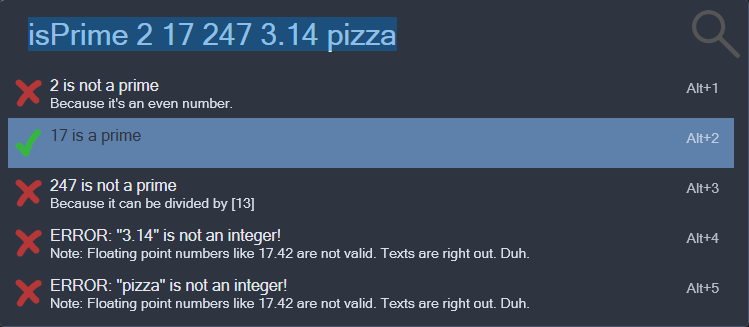
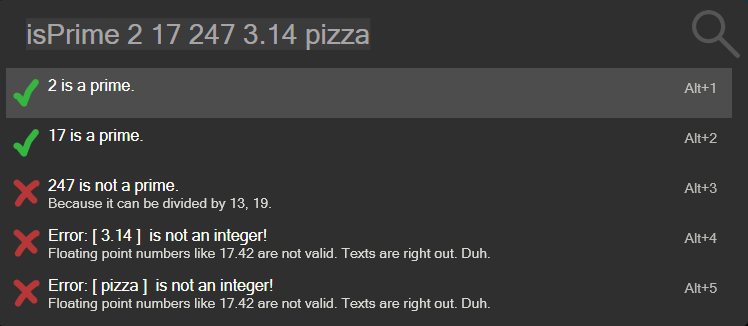
improved algorithm, messages, bumbed up version, adjusted readme

diff --git a/plugin/is_prime.py b/plugin/is_prime.py
@@ -3,12 +3,18 @@ from flowlauncher import FlowLauncher
 
 
 class Main(FlowLauncher):
+
+    DISPLAYED_FACTOR_LIMIT = 11  # has to be a prime, it's the law >:(
+    DIVISOR_LIST_SHORTENER = ".."
     PLACEHOLDER_NUMBER = "X"
-    MSG_IS_PRIME = "{} is a prime".format(PLACEHOLDER_NUMBER)
-    MSG_IS_NO_PRIME = "{} is not a prime".format(PLACEHOLDER_NUMBER)
+    MSG_ARG_IS_NAN = "Floating point numbers like 17.42 are not valid. Texts are right out. Duh."
+    MSG_ARG_IS_NEGATIVE = "Why even bother adding the minus? Just check the positive value."
+    MSG_IS_PRIME = "{} is a prime.".format(PLACEHOLDER_NUMBER)
+    MSG_IS_NO_PRIME = "{} is not a prime.".format(PLACEHOLDER_NUMBER)
     MSG_NUMBER_EVEN = "Because it's an even number."
-    MSG_NUMBER_DIVISABLE_BY = "Because it can be divided by [{}]".format(
+    MSG_NUMBER_DIVISABLE_BY = "Because it can be divided by {}.".format(
         PLACEHOLDER_NUMBER)
+    LOW_PRIME_THRESHOLD = 3  # 1-3 are primes so don't check those
 
     messages = []
 
@@ -20,13 +26,38 @@ class Main(FlowLauncher):
         })
 
     def isPrime(self, number: int):
-        if number > 2 and number % 2 == 0:
-            return {"isPrime": False, "message": self.MSG_NUMBER_EVEN}
-        # start at 3 and only check odd number up to sqrt(n)+1
-        for i in range(3, int(number**0.5)+1, 2):
-            if number % i == 0:
-                return {"isPrime": False, "message": self.MSG_NUMBER_DIVISABLE_BY.replace(self.PLACEHOLDER_NUMBER, str(i))}
+        if number > self.LOW_PRIME_THRESHOLD:
+            if number % 2 == 0:
+                return {"isPrime": False, "message": self.MSG_NUMBER_EVEN}
+            factors = self.getFactors(number)
+            if len(factors) > 0:
+                return {
+                    "isPrime": False,
+                    "message": self.MSG_NUMBER_DIVISABLE_BY.replace(
+                        self.PLACEHOLDER_NUMBER,
+                        ", ".join(map(str, factors))
+                    )
+                }
+        # number < 4 or no divisors found
         return {"isPrime": True, "message": None}
+
+    def shortenList(self, lst: list) -> list:
+        if len(lst) >= self.DISPLAYED_FACTOR_LIMIT:
+            shortenedList = lst[:self.DISPLAYED_FACTOR_LIMIT]
+            shortenedList.append(self.DIVISOR_LIST_SHORTENER)
+            return shortenedList
+        return lst
+
+    def getFactors(self, number: int) -> list:
+        factors = set()
+        # start at 3 and only check odd numbers up to sqrt(n)+1
+        for i in range(self.LOW_PRIME_THRESHOLD, int(number**0.5) + 1, 2):
+            if number % i == 0:
+                factors.add(i)
+                factors.add(number//i)
+        asList = list(factors)
+        asList.sort()
+        return self.shortenList(asList)
 
     def getNumberValue(self, text: str):
         try:
@@ -44,14 +75,23 @@ class Main(FlowLauncher):
             isNumber, value = self.getNumberValue(number)
 
             if isNumber:
-                result = self.isPrime(value)
-                title = self.MSG_IS_PRIME if result["isPrime"] else self.MSG_IS_NO_PRIME
-                title = title.replace(self.PLACEHOLDER_NUMBER, str(value))
-                subTitle = result["message"]
-                img = "success" if result["isPrime"] else "failure"
+                if value < 0:
+                    title = "Error: Given number musn't be negative!"
+                    subTitle = self.MSG_ARG_IS_NEGATIVE
+                    img = "failure"
+                elif value == 0:
+                    title = "You have summoned a black hole - congratulations!"
+                    subTitle = "By doing so you have doomed us all. I hope you're proud."
+                    img = "black-hole"
+                else:
+                    result = self.isPrime(value)
+                    title = self.MSG_IS_PRIME if result["isPrime"] else self.MSG_IS_NO_PRIME
+                    title = title.replace(self.PLACEHOLDER_NUMBER, str(value))
+                    subTitle = result["message"]
+                    img = "success" if result["isPrime"] else "failure"
             else:
-                title = "ERROR: \"{}\" is not an integer!".format(value)
-                subTitle = "Note: Floating point numbers like 17.42 are not valid. Texts are right out. Duh."
+                title = "Error: [ {} ]  is not an integer!".format(value)
+                subTitle = self.MSG_ARG_IS_NAN
                 img = "failure"
 
             self.addMessage(title, subTitle, img)

diff --git a/README.md b/README.md
@@ -1,6 +1,6 @@
 # IsPrime (Flow.Launcher.Plugin.IsPrime)
 
-A [Flow Launcher](https://github.com/Flow-Launcher/Flow.Launcher) port of my original wox plugin [wox-plugin-isPrime](https://github.com/lvonkacsoh/wox-plugin-isPrime).
+A [Flow Launcher](https://github.com/Flow-Launcher/Flow.Launcher) port of my original [wox-plugin-isPrime](https://github.com/lvonkacsoh/wox-plugin-isPrime).
 
 ![screenshot](assets/isPrime_screenshot.png)
 
@@ -8,9 +8,9 @@ A [Flow Launcher](https://github.com/Flow-Launcher/Flow.Launcher) port of my ori
 ## About
 
 Checks if the given integers are prime numbers.
-If the number is not a prime it tells you by which other number it can be divided.
+If the number is not a prime it tells you by which numbers it can be devided.
+Due to space limitations only up to eleven factors can be displayed.
 
-The screenshot shows all relevant edge cases.
 In case you are still unsure about what integers are consider consulting your favourite math tutor.
 
 
@@ -56,16 +56,25 @@ The easiest way to install it is to open a CLI like Powershell, navigate into th
 | `isPrime {number_0} {number_1} {number_N}` | check if the given values are prime numbers |
 
 Floating point numbers and text are both treated as invalid since they're no integers.
-Checking if 3.14 or "pizza" is prime seems kind of nonsense to me.
+Negative numbers are integers but will be treated invalid nonetheless.
+Checking if -25, 3.14 or "pizza" is prime seems kind of nonsense to me.
 
 
 ## Changelog
 
 - v1.0 
     + initial wox port
-- v1.1
+- v1.1 (additional informations) 
     + add an info message by which number the given integer can be divided
     + small code cleanup
+- v1.2 (Flow)
+    + add plugin to the automatic Flow workflow
+- v1.3 (improvements on the algorithm)
+    + two (2) is now treated as a prime, as it should be
+    + display up to eleven (11) factors instead of one
+    + treat negative numbers as invalid as well
+    + small adjustments on displayed messages
+    + added a small easteregg
 
 
 ## Problems, errors and feature requests
